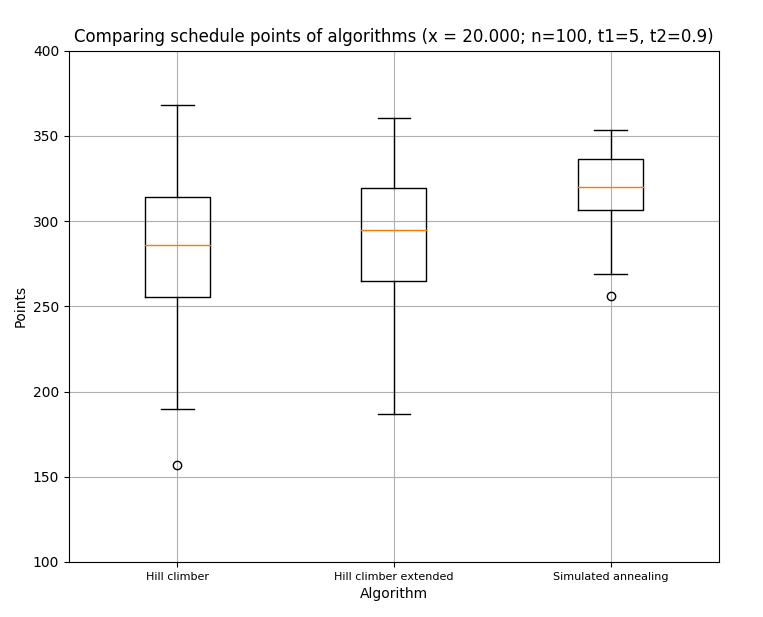
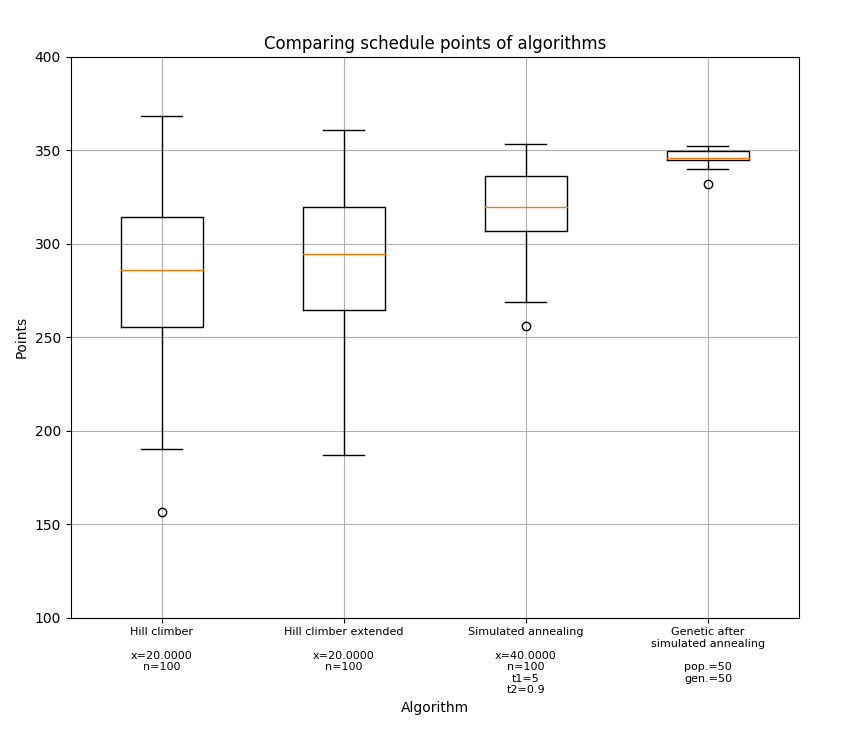
data van genetic staat er in bij results/images

diff --git a/boxplot_sanne.py b/boxplot_sanne.py
@@ -6,9 +6,9 @@ from matplotlib.pyplot import figure
 
 def plot():
 
-    boxplot_data = [[316.7237237237237, 214.74174174174175, 260.0, 252.07207207207207, 368.34834834834834, 270.07207207207205, 295.07207207207205, 156.72372372372374, 298.0450450450451, 318.34834834834834, 278.0450450450451, 268.0450450450451, 278.34834834834834, 338.34834834834834, 296.6966966966967, 319.34834834834834, 240.35735735735736, 268.7957957957958, 307.05405405405406, 240.37537537537537, 265.4024024024024, 236.6966966966967, 278.6966966966967, 300.7237237237237, 292.34834834834834, 333.7237237237237, 228.34834834834834, 291.3933933933934, 303.34834834834834, 320.02702702702703, 323.6966966966967, 267.0, 253.39339339339338, 315.42042042042044, 247.75075075075074, 238.6966966966967, 277.6966966966967, 270.34834834834834, 264.0810810810811, 210.0, 314.42942942942943, 354.07207207207205, 245.58258258258257, 300.37537537537537, 307.0, 319.37537537537537, 286.07207207207205, 315.37537537537537, 313.3933933933934, 283.0, 317.6966966966967, 325.0450450450451, 303.6966966966967, 278.6966966966967, 290.0450450450451, 251.6966966966967, 338.34834834834834, 331.8048048048048, 258.6966966966967, 255.7057057057057, 341.37537537537537, 317.02702702702703, 313.0, 323.7237237237237, 306.7237237237237, 242.34834834834834, 298.0, 316.6966966966967, 238.37537537537537, 270.34834834834834, 242.6966966966967, 297.34834834834834, 324.02702702702703, 279.77777777777777, 311.34834834834834, 241.77777777777777, 248.34834834834834, 256.47447447447445, 265.07207207207205, 293.6966966966967, 248.6966966966967, 303.34834834834834, 288.0450450450451, 230.4024024024024, 243.6966966966967, 273.0, 335.37537537537537, 263.0, 190.0], [222.6966966966967, 297.47447447447445, 252.02702702702703, 228.79579579579578, 343.0900900900901, 246.72372372372374, 279.42942942942943, 273.34834834834834, 278.0450450450451, 276.87687687687685, 256.3933933933934, 353.0, 326.34834834834834, 322.0450450450451, 323.42042042042044, 329.0450450450451, 351.0810810810811, 293.37537537537537, 350.7237237237237, 315.0450450450451, 284.38438438438436, 245.47447447447448, 358.34834834834834, 276.7237237237237, 303.34834834834834, 253.6966966966967, 196.87687687687688, 272.07207207207205, 287.1171171171171, 320.0, 316.6966966966967, 259.6966966966967, 232.07207207207207, 273.3933933933934, 250.04504504504504, 318.54654654654655, 281.7687687687688, 303.38438438438436, 306.3933933933934, 323.3933933933934, 240.0, 313.3933933933934, 297.02702702702703, 262.37537537537537, 252.51951951951952, 303.3663663663664, 358.34834834834834, 335.0450450450451, 352.41141141141142, 263.6966966966967, 187.04504504504504, 308.74174174174175, 272.74174174174175, 331.34834834834834, 274.6966966966967, 308.0810810810811, 328.34834834834834, 355.0450450450451, 342.74174174174175, 316.04504504504504, 301.02702702702703, 342.0450450450451, 288.7147147147147, 243.02702702702703, 276.34834834834834, 323.6966966966967, 289.83183183183183, 276.6966966966967, 295.07207207207205, 316.37537537537537, 340.3933933933934, 301.6966966966967, 360.6966966966967, 221.17117117117118, 302.0990990990991, 267.0, 250.02702702702703, 297.0450450450451, 309.0450450450451, 310.5195195195195, 310.02702702702703, 294.05405405405406, 257.02702702702703, 264.0990990990991, 269.3933933933934, 273.4384384384384, 284.47447447447445, 335.1081081081081, 225.018018018018, 238.34834834834834] , [338.7687687687688, 326.8138138138138, 332.8498498498499, 296.8498498498499, 325.5285285285285, 348.4384384384384, 302.8858858858859, 341.8948948948949, 293.85885885885887, 338.4114114114114, 316.8138138138138, 309.78678678678676, 294.5015015015015, 302.8048048048048, 338.7237237237237, 321.5645645645646, 327.14414414414415, 319.8048048048048, 305.1081081081081, 341.0810810810811, 342.42942942942943, 342.75975975975973, 336.7237237237237, 311.4474474474475, 345.4924924924925, 311.14414414414415, 281.4384384384384, 315.82282282282284, 295.55555555555554, 281.0990990990991, 329.54654654654655, 338.75075075075074, 333.8138138138138, 280.4024024024024, 321.4114114114114, 317.2522522522523, 317.1171171171171, 305.74174174174175, 323.4834834834835, 315.1261261261261, 270.8408408408408, 309.42942942942943, 319.4834834834835, 343.7237237237237, 304.8048048048048, 308.85885885885887, 324.53753753753756, 331.5735735735736, 268.83183183183183, 341.14414414414415, 319.2072072072072, 330.06306306306305, 303.1261261261261, 341.5015015015015, 307.77777777777777, 336.4114114114114, 308.46546546546546, 337.42042042042044, 283.78678678678676, 308.2072072072072, 255.82282282282281, 306.75975975975973, 322.4834834834835, 305.14414414414415, 326.46546546546546, 278.8048048048048, 327.13513513513516, 323.8408408408408, 329.5195195195195, 304.77777777777777, 313.4834834834835, 317.14414414414415, 347.42042042042044, 338.1981981981982, 332.4384384384384, 309.0810810810811, 304.0990990990991, 353.45645645645646, 317.1801801801802, 326.18918918918916, 349.73273273273276, 345.7957957957958, 348.1081081081081, 292.8048048048048, 310.0900900900901, 319.4834834834835, 333.42042042042044, 328.45645645645646, 347.4474474474475]]
+    boxplot_data = [[316.7237237237237, 214.74174174174175, 260.0, 252.07207207207207, 368.34834834834834, 270.07207207207205, 295.07207207207205, 156.72372372372374, 298.0450450450451, 318.34834834834834, 278.0450450450451, 268.0450450450451, 278.34834834834834, 338.34834834834834, 296.6966966966967, 319.34834834834834, 240.35735735735736, 268.7957957957958, 307.05405405405406, 240.37537537537537, 265.4024024024024, 236.6966966966967, 278.6966966966967, 300.7237237237237, 292.34834834834834, 333.7237237237237, 228.34834834834834, 291.3933933933934, 303.34834834834834, 320.02702702702703, 323.6966966966967, 267.0, 253.39339339339338, 315.42042042042044, 247.75075075075074, 238.6966966966967, 277.6966966966967, 270.34834834834834, 264.0810810810811, 210.0, 314.42942942942943, 354.07207207207205, 245.58258258258257, 300.37537537537537, 307.0, 319.37537537537537, 286.07207207207205, 315.37537537537537, 313.3933933933934, 283.0, 317.6966966966967, 325.0450450450451, 303.6966966966967, 278.6966966966967, 290.0450450450451, 251.6966966966967, 338.34834834834834, 331.8048048048048, 258.6966966966967, 255.7057057057057, 341.37537537537537, 317.02702702702703, 313.0, 323.7237237237237, 306.7237237237237, 242.34834834834834, 298.0, 316.6966966966967, 238.37537537537537, 270.34834834834834, 242.6966966966967, 297.34834834834834, 324.02702702702703, 279.77777777777777, 311.34834834834834, 241.77777777777777, 248.34834834834834, 256.47447447447445, 265.07207207207205, 293.6966966966967, 248.6966966966967, 303.34834834834834, 288.0450450450451, 230.4024024024024, 243.6966966966967, 273.0, 335.37537537537537, 263.0, 190.0], [222.6966966966967, 297.47447447447445, 252.02702702702703, 228.79579579579578, 343.0900900900901, 246.72372372372374, 279.42942942942943, 273.34834834834834, 278.0450450450451, 276.87687687687685, 256.3933933933934, 353.0, 326.34834834834834, 322.0450450450451, 323.42042042042044, 329.0450450450451, 351.0810810810811, 293.37537537537537, 350.7237237237237, 315.0450450450451, 284.38438438438436, 245.47447447447448, 358.34834834834834, 276.7237237237237, 303.34834834834834, 253.6966966966967, 196.87687687687688, 272.07207207207205, 287.1171171171171, 320.0, 316.6966966966967, 259.6966966966967, 232.07207207207207, 273.3933933933934, 250.04504504504504, 318.54654654654655, 281.7687687687688, 303.38438438438436, 306.3933933933934, 323.3933933933934, 240.0, 313.3933933933934, 297.02702702702703, 262.37537537537537, 252.51951951951952, 303.3663663663664, 358.34834834834834, 335.0450450450451, 352.41141141141142, 263.6966966966967, 187.04504504504504, 308.74174174174175, 272.74174174174175, 331.34834834834834, 274.6966966966967, 308.0810810810811, 328.34834834834834, 355.0450450450451, 342.74174174174175, 316.04504504504504, 301.02702702702703, 342.0450450450451, 288.7147147147147, 243.02702702702703, 276.34834834834834, 323.6966966966967, 289.83183183183183, 276.6966966966967, 295.07207207207205, 316.37537537537537, 340.3933933933934, 301.6966966966967, 360.6966966966967, 221.17117117117118, 302.0990990990991, 267.0, 250.02702702702703, 297.0450450450451, 309.0450450450451, 310.5195195195195, 310.02702702702703, 294.05405405405406, 257.02702702702703, 264.0990990990991, 269.3933933933934, 273.4384384384384, 284.47447447447445, 335.1081081081081, 225.018018018018, 238.34834834834834] , [338.7687687687688, 326.8138138138138, 332.8498498498499, 296.8498498498499, 325.5285285285285, 348.4384384384384, 302.8858858858859, 341.8948948948949, 293.85885885885887, 338.4114114114114, 316.8138138138138, 309.78678678678676, 294.5015015015015, 302.8048048048048, 338.7237237237237, 321.5645645645646, 327.14414414414415, 319.8048048048048, 305.1081081081081, 341.0810810810811, 342.42942942942943, 342.75975975975973, 336.7237237237237, 311.4474474474475, 345.4924924924925, 311.14414414414415, 281.4384384384384, 315.82282282282284, 295.55555555555554, 281.0990990990991, 329.54654654654655, 338.75075075075074, 333.8138138138138, 280.4024024024024, 321.4114114114114, 317.2522522522523, 317.1171171171171, 305.74174174174175, 323.4834834834835, 315.1261261261261, 270.8408408408408, 309.42942942942943, 319.4834834834835, 343.7237237237237, 304.8048048048048, 308.85885885885887, 324.53753753753756, 331.5735735735736, 268.83183183183183, 341.14414414414415, 319.2072072072072, 330.06306306306305, 303.1261261261261, 341.5015015015015, 307.77777777777777, 336.4114114114114, 308.46546546546546, 337.42042042042044, 283.78678678678676, 308.2072072072072, 255.82282282282281, 306.75975975975973, 322.4834834834835, 305.14414414414415, 326.46546546546546, 278.8048048048048, 327.13513513513516, 323.8408408408408, 329.5195195195195, 304.77777777777777, 313.4834834834835, 317.14414414414415, 347.42042042042044, 338.1981981981982, 332.4384384384384, 309.0810810810811, 304.0990990990991, 353.45645645645646, 317.1801801801802, 326.18918918918916, 349.73273273273276, 345.7957957957958, 348.1081081081081, 292.8048048048048, 310.0900900900901, 319.4834834834835, 333.42042042042044, 328.45645645645646, 347.4474474474475], [352.0990990990991, 349.78678678678676, 349.78678678678676, 351.1081081081081, 349.78678678678676, 345.0450450450451, 345.0450450450451, 348.0450450450451, 351.4384384384384, 349.78678678678676, 340.42042042042044, 345.7057057057057, 349.78678678678676, 345.0450450450451, 345.0450450450451, 349.78678678678676, 345.7057057057057, 345.0450450450451, 345.7057057057057, 345.0450450450451, 349.78678678678676, 345.0450450450451, 345.0450450450451, 345.0450450450451, 340.42042042042044, 345.0450450450451, 348.0450450450451, 349.78678678678676, 345.7057057057057, 343.85885885885887, 345.0450450450451, 351.4384384384384, 347.05405405405406, 350.4474474474475, 345.0450450450451, 345.0450450450451, 340.1171171171171, 345.0450450450451, 350.4474474474475, 349.78678678678676, 345.0450450450451, 344.18918918918916, 346.3663663663664, 350.4474474474475, 349.78678678678676, 345.0450450450451, 348.0450450450451, 345.0450450450451, 345.0450450450451, 332.1171171171171]]
 
-    boxplot_xaxis = ["Hill climber", "Hill climber extended", "Simulated annealing"]
+    boxplot_xaxis = ["Hill climber" + '\n' + '\n' + "x=20.0000" + '\n' + "n=100", "Hill climber extended" + '\n' + '\n' + "x=20.0000" + '\n' + "n=100", "Simulated annealing" + '\n' + '\n' + "x=40.0000" + '\n' + "n=100" + '\n' + "t1=5" + '\n' + "t2=0.9", "Genetic after" + '\n' + "simulated annealing" + '\n' + '\n' + "pop.=50" + '\n' + "gen.=50"]
 
     # Make the plot of selected checkboxes
     ax = plt.subplot(111)
@@ -16,7 +16,7 @@ def plot():
     plt.xticks(fontsize=8)
     ax.set_xticklabels(boxplot_xaxis)
     ax.set_ylim([100,400])
-    plt.title("Comparing schedule points of algorithms (x = 20.000; n=100, t1=5, t2=0.9)")
+    plt.title("Comparing schedule points of algorithms")
     plt.ylabel("Points")
     plt.xlabel("Algorithm")
     plt.grid()

diff --git a/plan.py b/plan.py
@@ -474,77 +474,3 @@ class Plan():
 if __name__ == "__main__":
     plan = Plan()
     plan.generate()
-
-    # 100x rooster maken en algoritmen uitvoeren
-    schedules = []
-    hillclimbers = []
-    hillclimber_extendeds = []
-    simulated_annealings = []
-    x = 30000
-    x_sim = 45000
-    n = 40
-    begin_temperature = 5
-    end_temperature = 0.9
-    type = 'exponential'
-
-    for i in range(50):
-        schedule = schedulemaker.initialize_schedule(plan.courses)
-
-        # hillclimbers.append(hillclimber.climb(schedule, plan.courses, x)[1])
-        # hillclimber_extendeds.append(hillclimberextended.climb(schedule, plan.courses, x)[1])
-        simulated_annealings.append(annealing.anneal(schedule, plan.courses, \
-            int(x_sim / 2), begin_temperature, end_temperature, type)[0])
-        # simulated_annealings.append(schedule)
-
-    genetic_points = []
-    for i in range(50):
-        genetic_points.append(genetic.genetic_algorithm(simulated_annealings,
-                              plan.courses, 50, 50, "rank")[1])
-        print(genetic_points)
-
-    print(genetic_points)
-
-
-    # # 50 random roosters maken
-    # schedules = []
-    # hillclimbers = []
-    # hillclimber_extendeds = []
-    # simulated_annealings = []
-    # x = 30000
-    # x_sim = 45000
-    # n = 50
-    # begin_temperature = 5
-    # end_temperature = 0.9
-    # type = 'exponential'
-    #
-    # for i in range(n):
-    #     schedule = schedulemaker.initialize_schedule(plan.courses)
-    #
-    #     hillclimbers.append(hillclimber.climb(schedule, plan.courses, x)[1])
-    #     hillclimber_extendeds.append(hillclimberextended.climb(schedule, plan.courses, x)[1])
-    #     simulated_annealings.append(annealing.anneal(schedule, plan.courses, \
-    #         int(x_sim / 2), begin_temperature, end_temperature, type)[1])
-    #
-    #
-    #     # print(hillclimbers, hillclimber_extendeds, simulated_annealings)
-    #
-    # print(hillclimbers, hillclimber_extendeds, simulated_annealings)
-
-
-
-    # # 50 random roosters maken
-    # schedules = []
-    # for i in range(50):
-    #     schedule = schedulemaker.initialize_schedule(plan.courses)
-    #     schedules.append(schedule)
-    #
-    # kway = []
-    # rank = []
-    # random_genetic = []
-    # for i in range(50):
-    #     kway.append(genetic.genetic_algorithm(schedules, plan.courses, 50, 50, "k-way"))
-    #     rank.append(genetic.genetic_algorithm(schedules, plan.courses, 50, 50, "rank"))
-    #     random_genetic.append(genetic.genetic_algorithm(schedules, plan.courses, 50, 50, "random"))
-    #     print(kway, rank, random_genetic)
-    #
-    # print(kway, rank, random_genetic)
